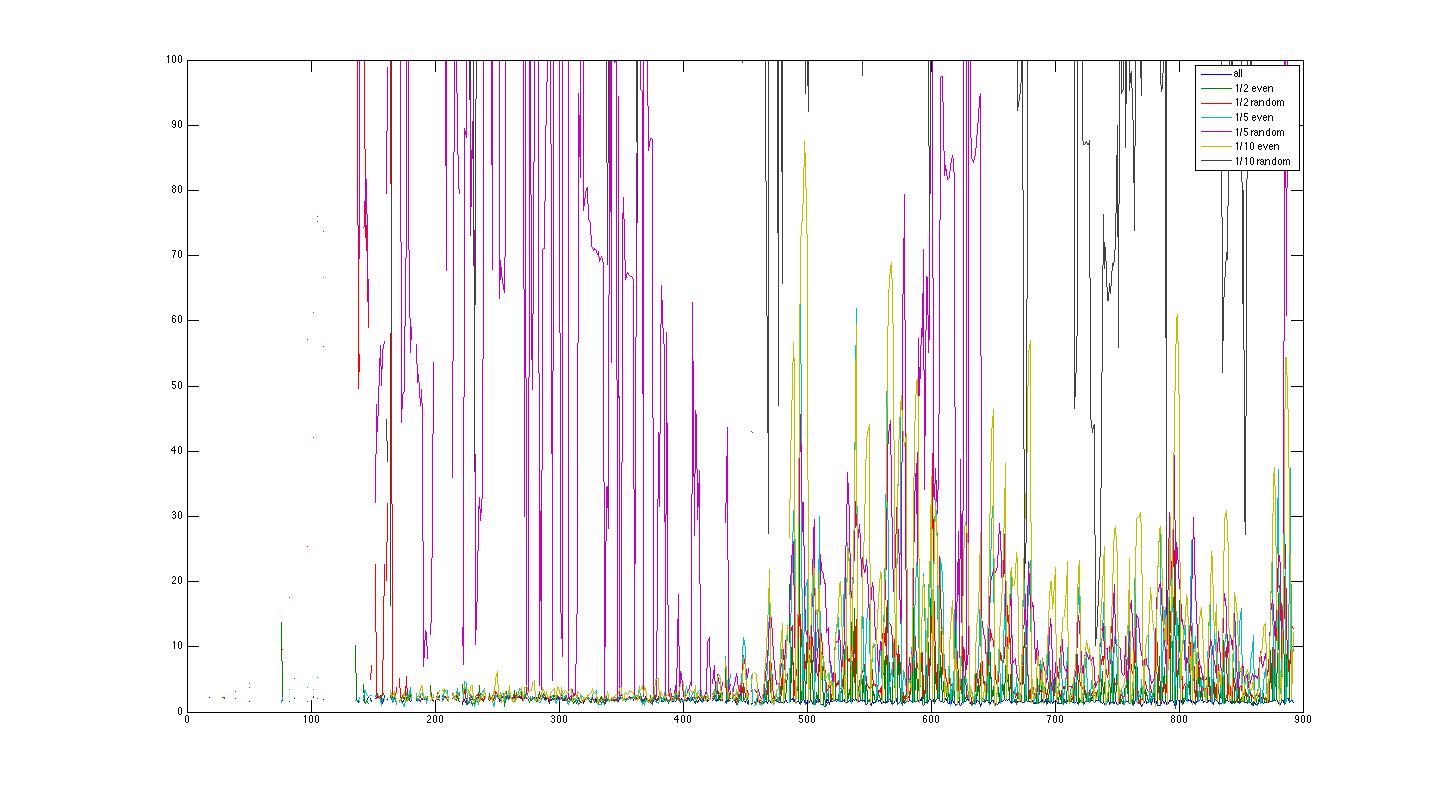
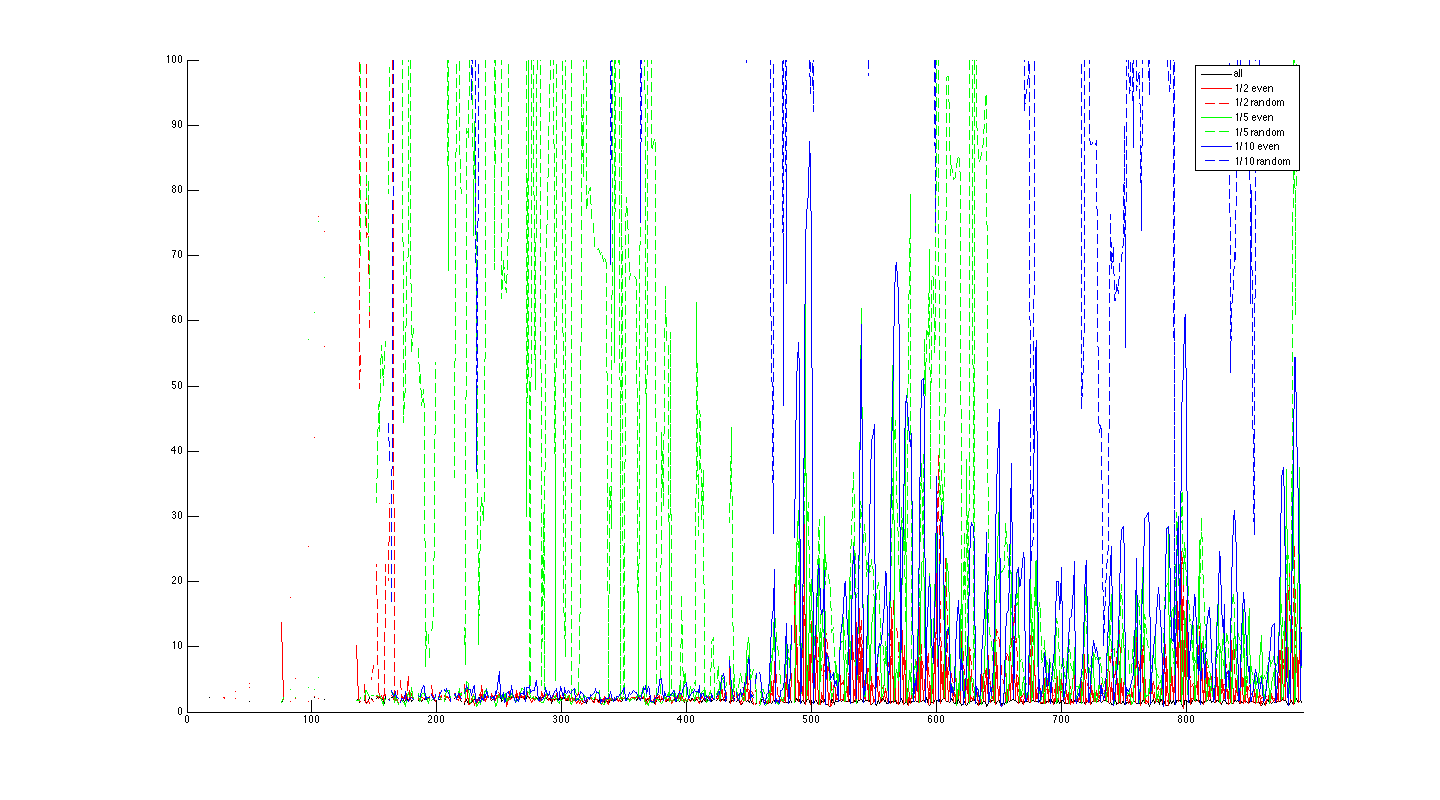
updates plot error and error plots in the final writeup dir

Changed region(s): [[0.25, 0.0625, 0.9062, 0.9062], [0.75, 0.0625, 0.8125, 0.5]]

diff --git a/final_report/final_report.tex b/final_report/final_report.tex
@@ -114,6 +114,18 @@ We first report the error of the Kalman center with the ground truth center.  Th
 \label{fig:kalman_error}
 \end{figure}
 
+
+When we combined the Kalman filter with the local homography estimation for tracking the fiducial marker we get a prediction of the corners of the tag for every frame.  We compare the corners predicted with the ground truth corners defined by the April tag detections.  We report results on no subsampling, 1/2, 1/5, and 1/10th both random and equally spaced.  When we have a detection in the subsampled data we restart the tag at the ground truth location, as such for the even sampling we see that there is a cyclic response of drift for the sampling period and then a correction.  Random sampling has occassional bad periods where there is no correction phase for a long period and the result becomes quite bad.
+\begin{figure}
+\includegraphics[width=.5\textwidth]{Corner_error_nov1.png}
+\includegraphics[width=.5\textwidth]{Corner_error_nov2.png}
+\includegraphics[width=.5\textwidth]{Corner_error_nov3.png}
+\includegraphics[width=.5\textwidth]{Corner_error_dec1.png}
+\includegraphics[width=.5\textwidth]{Corner_error_nov2.png}
+\includegraphics[width=.5\textwidth]{Corner_error_dec3.png}
+\caption{Error of the corners of the fiducial marker predicted by our system with respect to the ground truth April Tag detector.  Blank areas represent locations where the April Tag was not detected by the ground truth detector.  See our later experiment for the analysis of our detector in these areas.}
+\label{fig:corner_error}
+
 \subsection{Datasets}
 
 

diff --git a/plotError.m b/plotError.m
@@ -11,7 +11,16 @@ for i = [2,5,10]
     Q(:,end+1) = mean(R');
 end
 
-plot(Q);
+hold on;
+plot(Q(:,1),'-k');
+plot(Q(:,2),'-r');
+plot(Q(:,3),'--r');
+plot(Q(:,4),'-g');
+plot(Q(:,5),'--g');
+plot(Q(:,6),'-b');
+plot(Q(:,7),'--b');
+axis([0,size(Q,1),0,100]);
+
 %set(gca, 'ymax', 100);
 %set(gca,'yscale','log')
 legend(gca,'all','1/2 even', '1/2 random', '1/5 even' ,'1/5 random', ...
